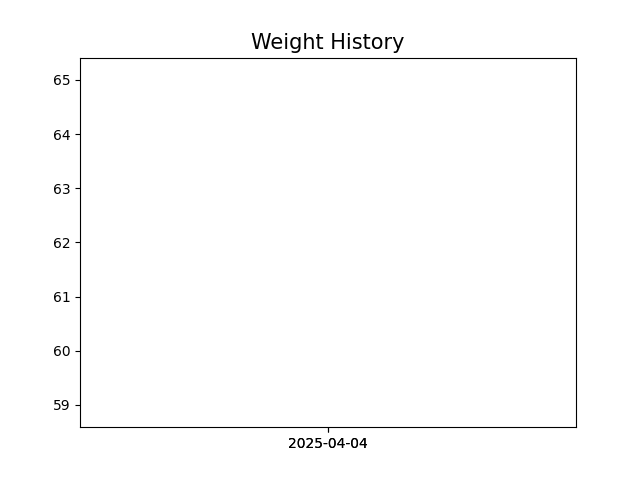
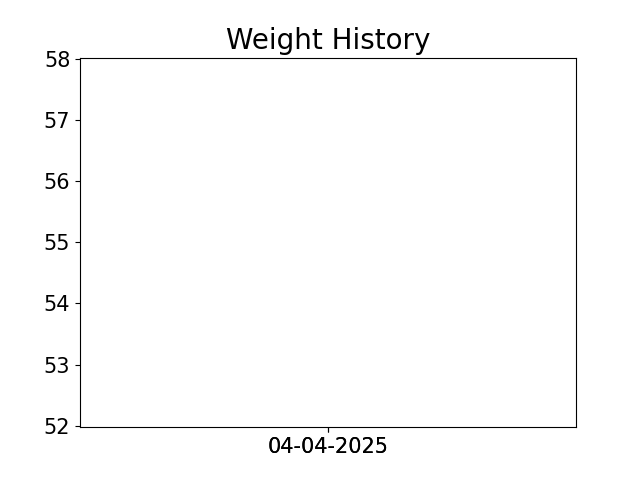
changes

diff --git a/App/TheApp/main.py b/App/TheApp/main.py
@@ -117,11 +117,11 @@ def bmi_decs_and_color(bmi_val):
     if bmi_val < 16:
         return ("Severely underweight", (0, 0, 1, 1))
     elif bmi_val < 18.5:
-        return ("Underweight", (0, 1, 1, 1))
+        return ("Underweight", (0, 1, 0.9, 1))
     elif bmi_val < 25:
         return ("Healthy", (0, 1, 0, 1))
     elif bmi_val < 30:
-        return ("Overweight", (1, 1, 0, 1))
+        return ("Overweight", (1, 0.9, 0, 1))
     elif bmi_val < 40:
         return ("Obese", (1, 0.5, 0, 1))
     else:
@@ -966,10 +966,10 @@ class StatisticsWindow(Screen):
             plt.plot(history_times[i:i+2], history_weight[i:i+2], color=color)
 
         plt.xticks([history_times[0], history_times[-1]], 
-               [history_times[0].strftime("%Y-%m-%d"), history_times[-1].strftime("%Y-%m-%d")], fontsize=10)
-        plt.yticks(fontsize=10) 
+               [history_times[0].strftime("%d-%m-%Y"), history_times[-1].strftime("%d-%m-%Y")], fontsize=15)
+        plt.yticks(fontsize=15) 
         
-        plt.title("Weight History", fontsize=15)
+        plt.title("Weight History", fontsize=20)
         plt.savefig("weight_history.png")
         plt.close()
 
